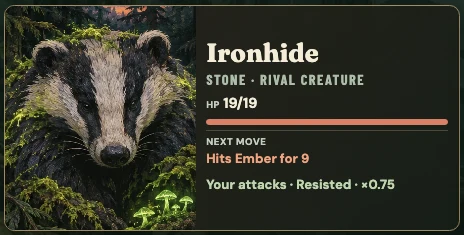
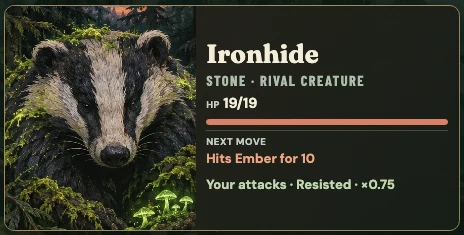
Rebalance Secret Star and increase enemy attack damage

Changed region(s): [[0.4224, 0.2979, 0.7845, 0.3872], [0.4526, 0.1787, 0.694, 0.2681], [0.6336, 0.6553, 0.694, 0.7149]]

diff --git a/index.html b/index.html
@@ -125,7 +125,7 @@
           <div class="tutorial-lesson">
             <figure class="tutorial-visual">
               <button class="tutorial-enlarge" type="button" data-enlarge-picture aria-haspopup="dialog" aria-controls="tutorial-picture">
-                <img src="assets/tutorial/types-effects.webp" width="464" height="235" alt="Ironhide is a Stone rival with 19 HP. Next move shows Hits Ember for 9, and Your attacks shows Resisted, times 0.75." loading="lazy">
+                <img src="assets/tutorial/types-effects.webp" width="464" height="235" alt="Ironhide is a Stone rival with 19 HP. Next move shows Hits Ember for 10, and Your attacks shows Resisted, times 0.75." loading="lazy">
                 <span>Enlarge picture</span>
               </button>
               <figcaption>Read Next move and Your attacks under the rival’s HP.</figcaption>
